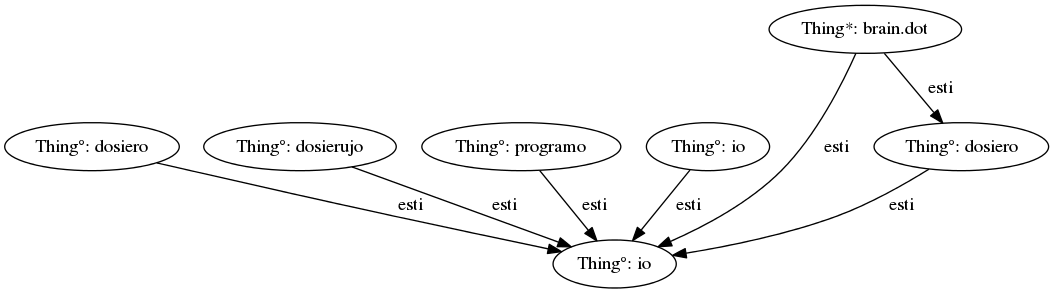
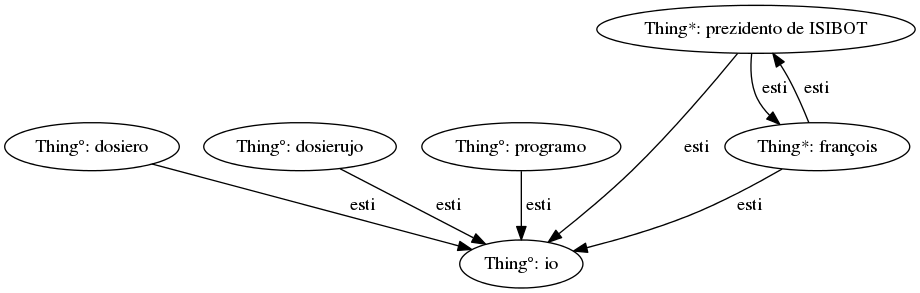
mind upgrade

diff --git a/src/jarvo.cpp b/src/jarvo.cpp
@@ -22,6 +22,10 @@ void Jarvo::feed(const std::string& n_input)
         {
             processPolarQuestion(t_sentence);
         }
+        else
+        {
+            processQuestion(t_sentence);
+        }
     }
     else if(t_sentence.verb() && t_sentence.verb()->tense == Word::JUSSIVE)
     {
@@ -66,6 +70,13 @@ void Jarvo::processStatement(Sentence& n_sentence)
         }
 
         t_subject_node->addOutputEdge(RelationContent(t_link_node),t_object_node);
+
+        if(n_sentence.subjectGroup().isDeterminate() &&
+           t_object_group.isDeterminate() &&
+           *t_link_node->content() == Link::isLink)
+        {
+            t_object_node->addOutputEdge(RelationContent(t_link_node),t_subject_node);
+        }
     }
 }
 
@@ -135,6 +146,103 @@ void Jarvo::processPolarQuestion(Sentence& n_sentence)
         else
         {
             say("Ne.");
+        }
+    }
+}
+
+void Jarvo::processQuestion(Sentence& n_sentence)
+{
+    Node* t_subject_node=0;
+    Node* t_object_node=0;
+    LinkNode* t_link_node=0;
+    bool t_error=false;
+    bool t_is_relation_found=false;
+    WordGroup t_object_group = n_sentence.objectGroup();
+    Node* t_found_node = 0;
+
+    if(!n_sentence.verbGroup().isEmpty())
+    {
+        t_link_node = n_sentence.verb()->link_node;
+
+        if(!t_link_node)
+        {
+            t_link_node = m_brain.getOrCreateLinkNode(Link(n_sentence.verb()->str_base));
+            n_sentence.verb()->link_node = t_link_node;
+            say("Nenio, mi ne scias kio estas " + n_sentence.verb()->str + ".");
+            t_error=true;
+        }
+    }
+    else t_error=true;
+
+    if(!n_sentence.subjectGroup().isEmpty())
+    {
+        if(!n_sentence.subject()->node && !n_sentence.subjectGroup().isInterrogative())
+        {
+            say("Nenio, mi ne scias kio estas " + n_sentence.subject()->str_base + ".");
+            t_error=true;
+        }
+        t_subject_node = m_brain.getOrCreateNode(n_sentence.subjectGroup());
+    }
+    else t_error=true;
+
+    if(!t_object_group.isEmpty())
+    {
+        if(!t_object_group.mainWord()->node && !n_sentence.objectGroup().isInterrogative())
+        {
+            say("Nenio, mi ne scias kio estas " + t_object_group.mainWord()->str_base + ".");
+            t_error=true;
+        }
+
+        if(!t_object_group.isDeterminate() && *t_link_node->content() == Link::isLink)
+        {
+            t_object_group.setGeneral(true);
+        }
+
+        t_object_node = m_brain.getOrCreateNode(t_object_group);
+    }
+
+    if(!t_error)
+    {
+
+        if(n_sentence.subjectGroup().isInterrogative())
+        {
+            FindPath t_finder(*t_link_node->content(), Node::INPUT);
+            m_brain.traverseNetwork(&t_finder, t_object_node);
+            t_found_node = t_finder.foundNode();
+
+            if(t_found_node)
+            {
+                say
+                (
+                    t_found_node->content().str() + " " +
+                    n_sentence.verb()->str + " "  +
+                    n_sentence.objectGroup().str() + "."
+                );
+            }
+            else
+            {
+                say("Nenio " + n_sentence.verbGroup().str() + " " + n_sentence.objectGroup().str() + ".");
+            }
+        }
+        else if(n_sentence.objectGroup().isInterrogative())
+        {
+            FindPath t_finder(*t_link_node->content(), Node::OUTPUT);
+            m_brain.traverseNetwork(&t_finder, t_subject_node);
+            t_found_node = t_finder.foundNode();
+
+            if(t_found_node)
+            {
+                say
+                (
+                    n_sentence.subjectGroup().str() + " " +
+                    n_sentence.verb()->str + " "  +
+                    t_found_node->content().str() + "n."
+                );
+            }
+            else
+            {
+                say(n_sentence.subjectGroup().str() + n_sentence.verbGroup().str() + " nenion.");
+            }
         }
     }
 }

diff --git a/src/findpath.cpp b/src/findpath.cpp
@@ -25,6 +25,18 @@ std::list<Relation*> FindPath::foundPath() const
     return m_relation_list;
 }
 
+Node* FindPath::foundNode() const
+{
+    if(m_is_found)
+    {
+        return m_link_found_node;
+    }
+    else
+    {
+        return 0;
+    }
+}
+
 bool FindPath::isPathFound() const
 {
     return m_is_found;
@@ -49,7 +61,14 @@ bool FindPath::checkEdge(Relation* n_relation)
     if(*t_link == m_link)
     {
         m_is_link_found = true;
-        m_link_found_node = n_relation->inputVertice();
+        if(m_direction == Node::OUTPUT)
+        {
+            m_link_found_node = n_relation->inputVertice();
+        }
+        else
+        {
+            m_link_found_node = n_relation->outputVertice();
+        }
         m_relation_list.push_back(n_relation);
         m_found_relation_it = --m_relation_list.end();
         stop = false;
@@ -60,7 +79,7 @@ bool FindPath::checkEdge(Relation* n_relation)
         stop = false;
     }
 
-    if(m_is_link_found && ((n_relation->inputVertice() == m_out_node || !m_out_node)))
+    if(m_is_link_found && ((m_link_found_node == m_out_node || !m_out_node)))
     {
         m_is_found = true;
         stop = true;

diff --git a/src/wordgroup.cpp b/src/wordgroup.cpp
@@ -53,10 +53,17 @@ void WordGroup::setMainWord(Word* n_main_word)
 {
     if(n_main_word)
     {
+        if(n_main_word->is_interrogative)
+        {
+            setInterrogative(true);
+        }
+
         switch(n_main_word->type)
         {
+            case Word::PRONOUN:
             case Word::NOUN:
                 m_type = WordGroup::NOUN;
+                if(n_main_word->is_special) setDeterminate(true);
                 break;
 
             case Word::VERB:
@@ -220,6 +227,7 @@ const std::vector<WordGroup> WordGroup::getComplements(WordGroupType n_type) con
 void WordGroup::addComplement(WordGroup n_group)
 {
     //setInterrogative(isInterrogative() | n_group.isInterrogative());
+    if(n_group.isDeterminate()) setDeterminate(true);
     m_complements.push_back(n_group);
 }
 

diff --git a/src/main.cpp b/src/main.cpp
@@ -6,8 +6,11 @@ int main()
     Jarvo jarvo;
 
     //     jarvo.feed("Cxiu birdo estas bela.");
-    jarvo.feed("brain.dot estas dosiero.");
-    jarvo.feed("Cxu brain.dot estas dosiero ?");
+//     jarvo.feed("Kiki mangxas testulon.");
+//     jarvo.feed("Kio mangxas la testulon ?");
+        jarvo.feed("\"françois\" estas la \"prezidento de ISIBOT\"");
+//     jarvo.feed("brain.dot estas dosiero.");
+//     jarvo.feed("Kio estas dosiero ?");
 //     jarvo.feed("Kato mangxas birdon.");
 //     jarvo.feed("La birdo estas verda.");
 //     jarvo.feed("Kiki estas malgranda testulo.");

diff --git a/src/dictionaryparser.cpp b/src/dictionaryparser.cpp
@@ -64,7 +64,7 @@ void DictionaryParser::parseFile(const std::string& n_file_name, std::vector<Wor
 void DictionaryParser::fillFunctionMap()
 {
     s_function_map["pronomo"] = &DictionaryParser::parsePronoun;
-    s_function_map["interrogativa_pronomo"] = &DictionaryParser::parsePronoun;
+    s_function_map["interrogativa_pronomo"] = &DictionaryParser::parseInterrogativePronoun;
     s_function_map["nomo"] = &DictionaryParser::parseNoun;
     s_function_map["verbo"] = &DictionaryParser::parseVerb;
     s_function_map["adjektivo"] = &DictionaryParser::parseAdjective;

diff --git a/src/wordgrouplist.cpp b/src/wordgrouplist.cpp
@@ -40,7 +40,7 @@ void WordGroupList::makeGroups(const std::vector<Word*>& n_words, std::list<Word
                 t_is_determinate = true;
 
             case Word::NOUN:
-                t_group.setDeterminate(t_is_determinate);
+                if(t_is_determinate) t_group.setDeterminate(t_is_determinate);
                 t_group.setGeneral(t_is_general);
                 t_is_determinate = false;
                 t_is_general = false;

diff --git a/src/parser.cpp b/src/parser.cpp
@@ -30,6 +30,11 @@ void Parser::parse(Sentence& n_sentence, const std::string& n_str)
     {
         t_word = t_group->mainWord();
 
+        if(t_group->isInterrogative())
+        {
+            n_sentence.setIsInterrogative(true);
+        }
+
         if(t_word->type == Word::NOUN || t_word->type == Word::PRONOUN)
         {
             if(t_word->function & Word::SUBJECT && !subject_set)

diff --git a/inc/findpath.h b/inc/findpath.h
@@ -15,6 +15,7 @@ class FindPath: public VerticeProcess<Thing, RelationContent>
 
         bool isPathFound() const;
         std::list<Relation*> foundPath() const;
+        Node* foundNode() const;
         virtual bool process(Node* n_node);
         virtual bool checkEdge(Relation* n_relation);
         virtual Node::LinkDirection direction() const;

diff --git a/inc/jarvo.h b/inc/jarvo.h
@@ -14,6 +14,7 @@ class Jarvo
         void feed(const std::string& n_input);
         void processStatement(Sentence& n_sentence);
         void processPolarQuestion(Sentence& t_sentence);
+        void processQuestion(Sentence& t_sentence);
         void processCommand(Sentence& t_sentence);
 
         static void say(const std::string& n_str);
